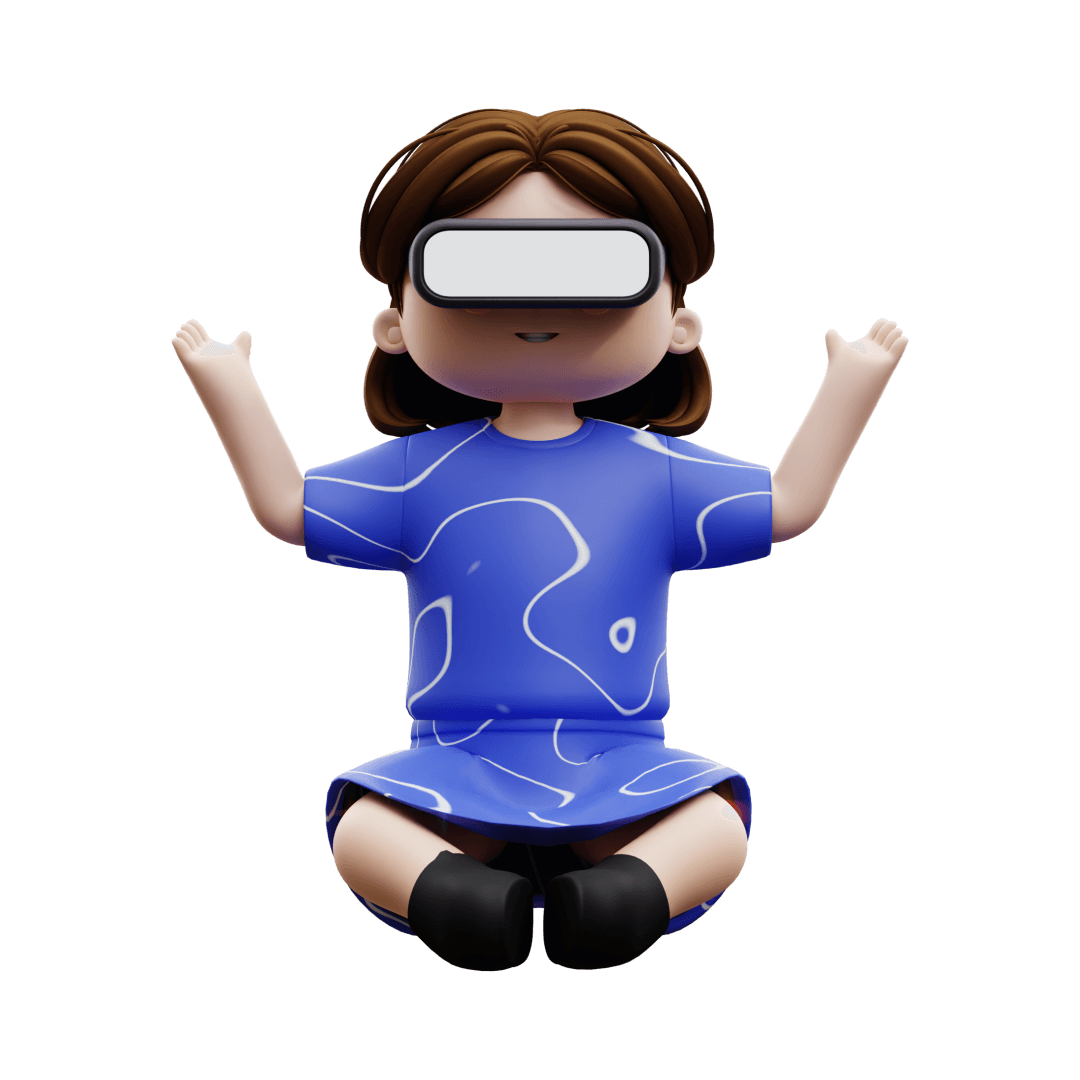
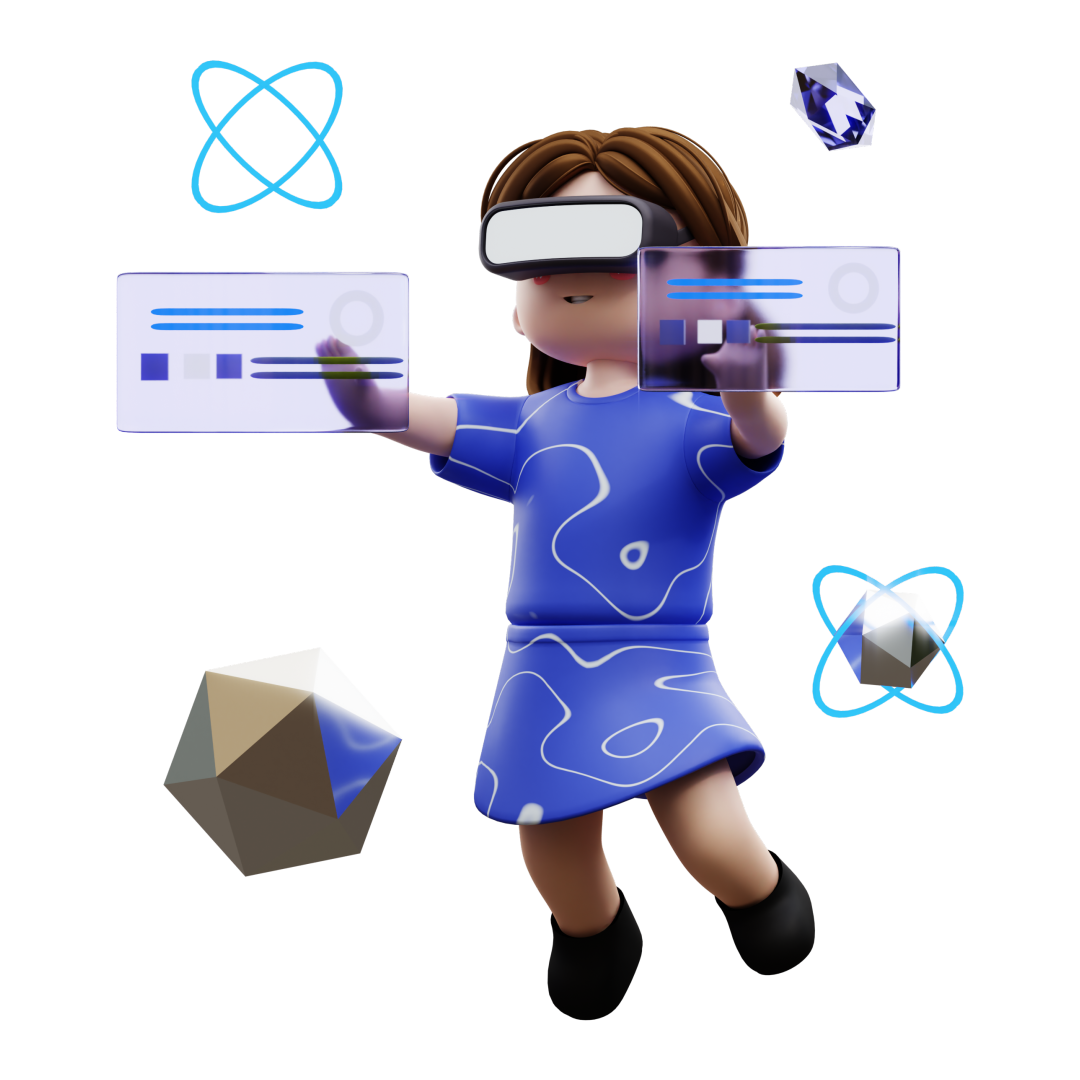
compressed images

diff --git a/src/screens/DyslexiaTest/WritingTest.tsx b/src/screens/DyslexiaTest/WritingTest.tsx
@@ -70,12 +70,12 @@ const styles = StyleSheet.create({
     fontSize: 24,
     color: '#3DB2FF',
     fontFamily: 'OpenDyslexic-Bold',
-    marginBottom: 20,
+    marginBottom: 30,
     textAlign: 'center',
   },
   icon: {
     width: 250,
-    height: 270,
+    height: 250,
     marginTop: -50,
   },
   instructionsBox: {
@@ -85,7 +85,7 @@ const styles = StyleSheet.create({
     borderWidth: 1.5,
     borderColor: '#3DB2FF',
     width: '100%',
-    marginBottom: 30,
+    marginBottom: 20,
     marginTop: -10,
   },
   instructionsText: {
